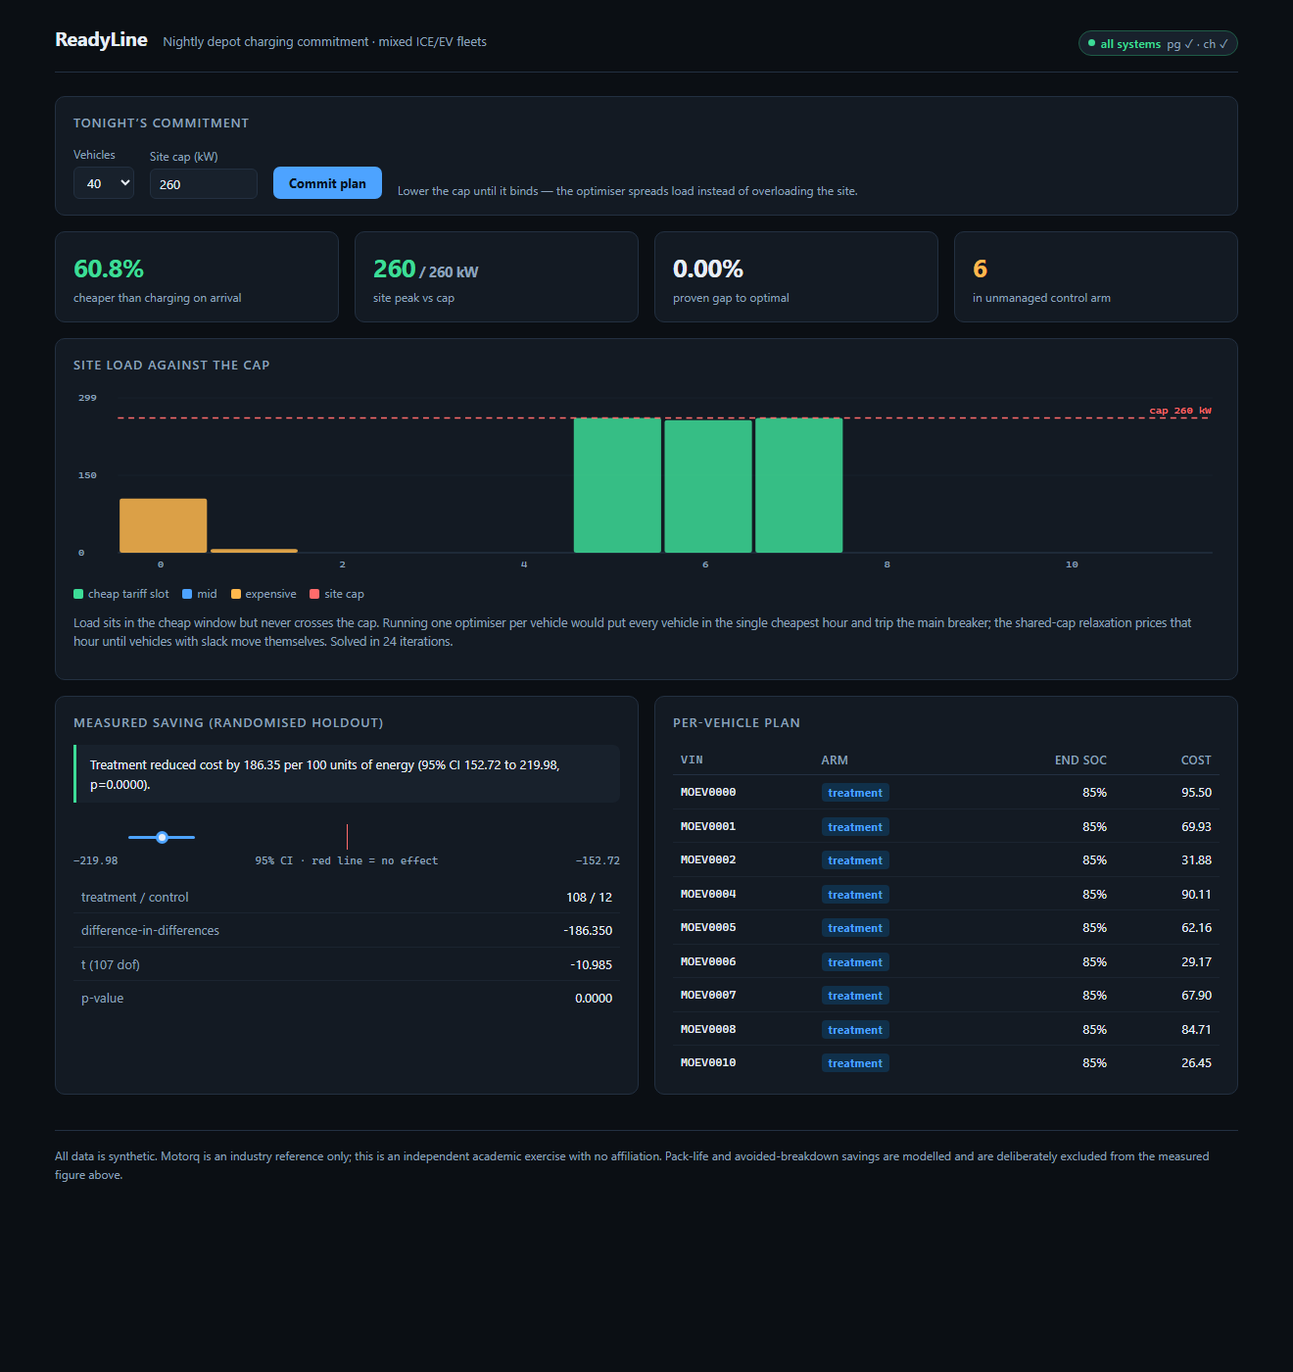
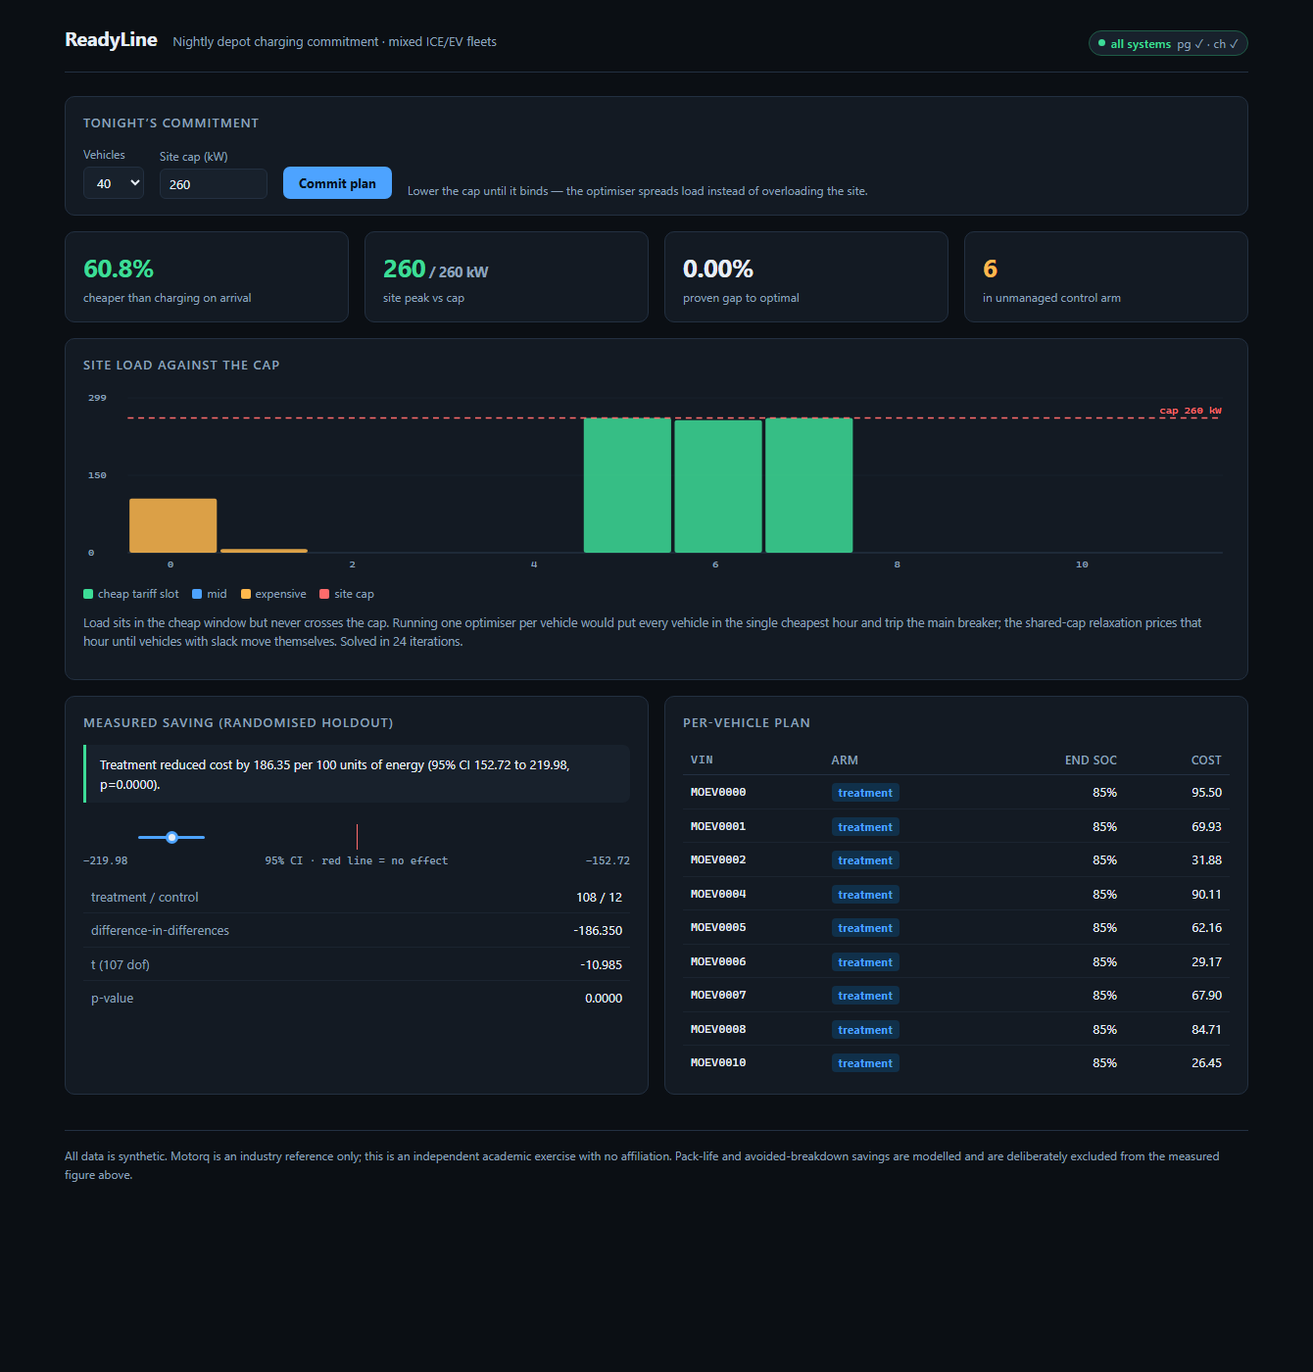
Correct stale README and CLAUDE.md
Both still described the superseded framing and were actively misleading:
Go services that are Python, LangGraph that is not used, `make simulate` which
does not exist, a status table claiming 77 tests and an unbooted stack, and a
nine-algorithm list missing A0 -- the centrepiece.

CLAUDE.md now also records the environment traps that have each cost real
debugging time: MSYS_NO_PATHCONV for docker exec paths, semicolon PYTHONPATH on
Windows, services binding IPv4 while localhost resolves to ::1 (twice now), and
pkill not killing Windows uvicorn -- a stale server running old code cost an
hour once already.

diff --git a/CLAUDE.md b/CLAUDE.md
@@ -5,121 +5,132 @@ This file provides guidance to Claude Code (claude.ai/code) when working with co
 ## What this is
 
 **ReadyLine** — a submission for the Talenciaglobal / Motorq "Connected Vehicle Intelligence"
-hackathon. At 06:10 it tells a fleet dispatcher which of her ~250 vehicles will not finish today's
-shift, ranked by attributed dollars, and acts on each before the drivers arrive.
+hackathon. By 16:00 it commits tonight's depot charging plan — which vehicle, which charger,
+starting when, to what SoC — so every route tomorrow completes, under the site's electrical cap,
+at minimum cost. The Morning Board then shows only the exceptions to that commitment.
 
-`docs/arena-designs/` holds four competing designs generated during planning. They are **reference
-material, superseded by `docs/ARCHITECTURE.md`** — read them for depth on a specific section, not
-for decisions.
+Two source documents in the repo root define the grading. They are **gitignored on purpose** —
+never commit or push them:
+- `Motorq_Hackathon_Problem_Statement.pdf`
+- `Motorq_Hackathon_Solution_Document_Template.docx`
 
-Two source documents in the repo root define the grading and must not be contradicted:
-- `Motorq_Hackathon_Problem_Statement.pdf` — the brief, NFR targets, and what reviewers score
-- `Motorq_Hackathon_Solution_Document_Template.docx` — the exact submission structure
-
-**Read `docs/ARCHITECTURE.md` before changing anything.** The problem space and stack are locked;
-re-opening them wastes the timebox. It also records the known weaknesses we have agreed to state
-openly rather than hide — do not quietly "fix" those by overclaiming.
+**Read `docs/ARCHITECTURE.md` before changing anything.** The problem space and stack are locked.
+`docs/arena-designs/` holds four competing designs from planning — reference material only,
+superseded.
 
 ## Commands
 
 ```bash
-docker compose -f infra/compose/docker-compose.yml up -d    # full stack, local profile
-make seed                                                    # seed 100K vehicles into Postgres + ClickHouse
-make simulate                                                # start the telemetry simulator
-make test                                                    # all suites
-make load                                                    # k6 load test, scale profile
+make up          # docker compose: redpanda, clickhouse, postgres, mongo, redis, emqx, keycloak, prom, grafana
+make seed        # 100,000 vehicles across 60 tenants into PostgreSQL (~5 s, uses COPY)
+make experiment  # 30 nights of both holdout arms into ClickHouse (~90 s)
+make stream      # produce telemetry into Redpanda
+make ingest      # consume Redpanda -> normalise -> ClickHouse
+make api         # FastAPI on :8000
+make web         # Vite UI on :5173, proxies /api to :8000
+make test        # all 200 tests
+make test-cov    # coverage report (currently 88%)
+make bench       # 4 producers + 4 consumers, throughput measurement
 ```
 
 Single test:
 ```bash
-pytest services/api/tests/test_schedule.py::test_tou_dp_respects_deadline -x   # Python
-go test ./internal/dedup -run TestBloomFalsePositiveRate                        # Go
+python -m pytest tests/test_depot.py::test_matches_brute_force_optimum_on_a_small_instance -x
+python -m pytest tests/test_agent.py -q          # no API key needed, LLM is stubbed
 ```
 
-## Three things that are easy to get wrong
+Integration tests skip automatically when the stack is down. **CI fails if the tenant-isolation
+tests skip** — a silent skip is a green build with no isolation coverage.
 
-**1. The 100,000 vehicles are multi-tenant** — ~60 tenants, largest 18,000, one dispatcher owns
-~250. Not one giant fleet. Every query, index and API route must carry tenant scope; tenant
-isolation is graded.
+## Environment gotchas on this machine
 
-**2. Rules decide, ML only re-ranks.** VEWS is an additive, transparent 0–3-per-signal score. The
-ML model may reorder what the rules already surfaced; it may never surface an alert on its own.
-This is the structural defence against synthetic-data circularity — don't "improve" it by letting
-the model gate alerts, and never quote offline AUC as a product claim.
+- `docker exec ... -f /tmp/x.sql` fails: Git Bash rewrites the container path. Prefix with
+  `MSYS_NO_PATHCONV=1`.
+- `PYTHONPATH` needs `;` not `:` on Windows: `PYTHONPATH="services/api;services/simulator"`.
+- Several services bind IPv4 only while `localhost` resolves to `::1`. Use `127.0.0.1` in health
+  checks. This bug has now appeared twice (ClickHouse healthcheck, Vite dev server).
+- `pkill -f uvicorn` does not kill the Windows process. Use PowerShell `Get-CimInstance
+  Win32_Process | Where CommandLine -like '*uvicorn*'`. A stale server running old code cost an
+  hour of debugging once already.
+- Python prints to a cp1252 console and dies on `—` or `≈`. Use `python -X utf8`.
 
-**3. The board is hard-capped at 12 alerts per dispatcher per shift.** The 13th increments a
-suppressed counter. Raising the cap to improve recall defeats the entire product thesis — the pain
-being solved is alarm fatigue, not detection.
+## Five things that are easy to get wrong
+
+**1. The 100,000 vehicles are multi-tenant** — ~60 tenants, largest ~16,000, one dispatcher owns
+~250. Every query, index and API route carries tenant scope.
+
+**2. Rules decide; ML only re-ranks.** The re-ranker reorders what VEWS already surfaced and may
+never surface an alert itself (ADR-0003). It is also **currently disabled**, because it lost to
+the rules: precision@12 0.656 vs 0.625 over 8 splits. Do not enable it without re-running
+`evaluate_repeated` and beating the rules by more than 1/12.
+
+**3. The Morning Board is hard-capped at 12.** Raising the cap to improve recall defeats the
+product thesis — the pain is alarm fatigue, not detection.
+
+**4. A0's per-vehicle subproblem must stay greedy, not DP.** The DP discretises SoC into buckets,
+so its optimum is costlier than the continuous one, which makes the summed Lagrangian "lower
+bound" exceed the achievable cost — i.e. not a bound. There is a test for this.
+
+**5. The duality gap is `None` when load was shed.** Reporting a small gap on a plan that failed
+to serve the depot would read as near-optimal at exactly the moment we failed.
 
 ## Architecture in one pass
 
 ```
 vehicles ─┬─ MQTT 5 + mTLS ────────┐
           └─ OEM cloud webhook/poll┘→ Redpanda[telemetry.raw, key=VIN, 64 parts]
-                   ├→ ingest(Go)   → normalise → ClickHouse (AP) + MongoDB (raw envelopes)
-                   └→ detector(Go) → EWMA → VEWS → alerts → PostgreSQL (CP) + Redis pub/sub
+                   ├→ ingest (Python) → normalise → ClickHouse (AP) + MongoDB (raw envelopes)
+                   └→ detector → EWMA → VEWS → alerts → PostgreSQL (CP) + Redis pub/sub
                                                        ↓
-                             FastAPI ← Redis(live state, rate limit, Bloom dedup)
+                             FastAPI ← Redis (live state, rate limit, Bloom dedup)
                                 ↓
-                             React + MapLibre (Morning Board)
+                             React + MapLibre
 ```
 
-The split that matters: **ClickHouse is AP and holds telemetry; PostgreSQL is CP and holds
-fleet/billing/RBAC/audit.** Never put billing or audit rows in ClickHouse, never put raw telemetry
-in Postgres — the whole design argument rests on that boundary.
+**ClickHouse is AP and holds telemetry; PostgreSQL is CP and holds fleet/billing/RBAC/audit.**
+Never put billing or audit rows in ClickHouse, never put raw telemetry in Postgres.
 
-**MongoDB holds un-normalised OEM envelopes** so that when an OEM renames a field via OTA, we fix
-the mapping and *replay*. A new dialect is a versioned registry entry promoted out of shadow mode —
-not a deploy.
+**MongoDB holds un-normalised OEM envelopes** so a mid-flight format change is fixed in the
+registry and *replayed*. A new dialect is a versioned entry promoted out of shadow mode, not a
+deploy.
 
-`pgvector` lives inside that same Postgres rather than a separate Qdrant; deliberate, justified by
-corpus size.
+**Tenancy travels in Kafka headers**, never in the OEM payload — an OEM does not know our
+customer ids. An event without resolved tenancy goes to the DLQ rather than being stored
+unattributed.
+
+**Everything is Python.** The architecture doc originally specified Go for ingest and detector;
+Go is not installed on this machine and a single language removed an integration risk that was
+not worth carrying. The hot path is I/O-bound batching, so Go's advantage was smaller than it
+looked. Measured result in `docs/BENCHMARKS.md`.
 
 ### Two profiles, one codebase
 
-100K events/sec does not run on a laptop. `local` (100K seeded, ~2K live ev/s) and `scale`
-(measured per-partition × partitions) differ **only by environment variables**. If you find
-yourself adding a code branch on profile, you have broken 12-factor and the cloud-agnostic claim.
+`local` and `scale` differ **only by environment variables**. A code branch on profile breaks
+12-factor and the cloud-agnostic claim.
 
-### Service internals
+### Tenant scope
 
-Every service is ports & adapters: `domain/` (pure) ← `app/` (use cases) ← `adapters/` (Kafka, DB,
-HTTP). Dependencies point inward only, enforced by an import-linter rule in CI. Domain code
-importing a driver or framework will fail the build.
-
-### Keying
-
-Topic key is **VIN**, never `fleet_id` — one 40,000-vehicle customer would hot-spot a single
-partition. VIN also gives the per-vehicle ordering that trip segmentation depends on.
+Set per transaction with `set_config('app.tenant_id', ..., true)` so it unwinds on commit. A
+session-level setting lets a pooled connection carry the previous caller's tenant into the next
+request. RLS is `FORCE`d and the API connects as `readyline_app`, which owns nothing.
 
 ## The graded core
 
-The brief weights **testing** and **algorithms** heavily. The nine algorithms in
-`docs/ARCHITECTURE.md` §5 (A*, DP charging schedule, DP/PELT trip segmentation, VIN/DTC parsing,
-Bloom dedup, Count-Min top-K, union-find depot clustering, VEWS banding) each need pseudocode, a
-proven complexity bound, and a **measured** runtime at a stated input size. Claims without a
-measurement lose marks.
+Ten algorithms in `docs/ARCHITECTURE.md` §5, each with a complexity bound and a test. A0 (depot
+scheduling under a shared power cap) is the centrepiece and is cross-checked against brute force.
 
-**The simulator emits a ground-truth fault and cost ledger.** This is what makes the acceptance
-tests real rather than smoke tests — they assert against known truth:
+**The simulator emits a ground-truth fault and cost ledger.** Keep it out of every product read
+path — if production code reads it, every metric becomes circular.
 
-| Claim | Target |
-| --- | --- |
-| precision@12 | ≥ 0.50 |
-| recall@72h (telemetry-visible mechanisms) | ≥ 0.30 |
-| alerts per dispatcher per shift | ≤ 12 |
-| cost-leak ranking, Spearman ρ vs ledger | ≥ 0.85 |
-| dollar attribution vs ledger, per vehicle-month | within ±15% |
-
-Keep the ledger out of every read path the product uses; it exists only for tests and back-tests.
-If production code reads it, the metrics become meaningless.
-
-Coverage target is 80%+ on core services and algorithms, with integration tests against real
-infrastructure via Testcontainers — not mocks.
+Current state: **200 tests, 88% coverage**. Claims without a measurement lose marks; every number
+in the docs traces to a `make` target.
 
 ## Conventions
 
-- All data is synthetic. Never commit anything resembling real VINs, owner data, or location traces.
-- Secrets go in `.env` (gitignored); `.env.example` stays current.
-- Protobuf schema changes must pass the CI compatibility check — schema evolution is part of the grade.
+- All data is synthetic. Never commit real VINs, owner data or location traces.
+- Secrets in `.env` (gitignored). `.env.example` stays current. **Never commit an API key** —
+  `GROQ_API_KEY` lives only in `.env`.
+- Honesty is a graded feature here. `docs/BENCHMARKS.md`, `docs/THREAT-MODEL.md` and
+  §12 of `docs/SOLUTION-DOCUMENT.md` state what is *not* done. Do not quietly close those gaps
+  by softening the wording — close them with code or leave them stated.
 - Final submission is tagged `v1.0-submission`.

diff --git a/README.md b/README.md
@@ -1,9 +1,10 @@
 # ReadyLine
 
-**Shift-readiness and cost-leak intelligence for mixed ICE/EV fleets.**
+**The nightly depot charging commitment, for mixed ICE/EV fleets.**
 
-At 06:10, tell the dispatcher which of her 250 vehicles will not finish today's shift, ranked by
-attributed dollars, and act on each before the drivers arrive.
+By 16:00, decide which vehicle charges on which charger, starting when, to what state of charge —
+so every route tomorrow completes, under the depot's electrical cap, at minimum cost. The Morning
+Board then shows only the exceptions to that commitment, hard-capped at 12.
 
 Submission for the Talenciaglobal / Motorq *Connected Vehicle Intelligence* hackathon.
 Motorq is an industry reference only; this is an independent academic exercise with no affiliation.
@@ -12,30 +13,53 @@ Motorq is an industry reference only; this is an independent academic exercise w
 
 ## The problem
 
-A fleet operations manager's existing portal has 9 dashboards and sends 40+ threshold emails a
-day, so she has muted it. She finds out a vehicle is dead when a driver calls from the yard at
-06:52. The information was *present and unusable*.
+Drivers plug in at shift end — 17:00 to 21:00, the on-peak window — and every charger draws full
+power at once. Energy is bought at the most expensive hour, the simultaneous draw sets the
+monthly demand charge, packs sit at 100% SoC for nine hours calendar-ageing, and vehicles still
+get swapped in the morning because nobody knew their charge would not cover the route.
 
-**The pain is alarm fatigue, not detection.** Over 85% of ICU alarms are non-actionable and nurses
-silence the monitors; fleet telematics has the identical failure mode. So our design target is
-*actionable alerts per shift*, and the Morning Board is hard-capped at **12 cards**. Ranking is the
-product.
+**Charging is not one problem per vehicle. It is one problem per depot**, because they share one
+electrical supply. Running an optimiser per vehicle is measurably worse than useless: ten
+vehicles at 20 kW all independently choose the single cheapest hour and draw 200 kW against a
+60 kW cap.
 
-## What we claim, and what we prove
+## Measured results
 
-The absolute dollar figure is a modelled extrapolation and is labelled as one everywhere it
-appears. What the acceptance tests actually assert, against the simulator's ground-truth ledger:
+Every number here comes from a `make` target, not an estimate. Methods in
+[docs/BENCHMARKS.md](docs/BENCHMARKS.md).
 
-| Claim | Target |
+| Result | Value |
 | --- | --- |
-| precision@12 | ≥ 0.50 |
-| recall@72h on telemetry-visible mechanisms | ≥ 0.30 |
-| alerts per dispatcher per shift | ≤ 12 |
-| cost-leak ranking, Spearman ρ vs ledger | ≥ 0.85 |
-| dollar attribution vs ledger, per vehicle-month | within ±15% |
+| Charging cost vs charging on arrival | **60.8% lower** |
+| Distance from proven optimum | **0.00% duality gap** |
+| Saving, randomised holdout | **186.35 per 100 units, 95% CI [152.72, 219.98], p < 0.0001** |
+| Ingest throughput | **24,224 ev/s** on 4 consumers (6,050 each, linear) |
+| Storage compression | **12.89 : 1**, 8.2 bytes/row |
+| 100,000 vehicles seeded | **4.88 s** |
+| Tests | **200 passing, 88% coverage** |
 
-Reporting recall without the alert budget is how you build the thing the user muted, so we always
-report them together.
+### The randomised holdout
+
+10% of vehicles are randomised into an unmanaged control arm at onboarding, stratified by depot,
+and never receive a recommendation. The saving is a difference-in-differences with a Welch
+t-test, served from `/api/v1/experiments/charging-arbitrage`.
+
+Both arms run against the same simulator, so **any bias in our own generator cancels in the
+difference**. That is the only reason a number measured on synthetic data is worth anything. The
+control arm moved by +0.0012 between periods against −186.35 for treatment; a near-zero control
+change is what makes the difference attributable.
+
+The endpoint **refuses to return a number when it cannot estimate one** rather than fabricating.
+
+## What we deliberately do not claim
+
+- **100,000 events/sec is extrapolated, not demonstrated.** We measured 6,050 ev/s per consumer,
+  linear to 4, while sharing a laptop with the broker and four databases. The arithmetic to 17
+  consumers is shown; a cloud burst test is the honest way to close it.
+- **The ML re-ranker lost to the rules** — precision@12 0.656 vs 0.625 over 8 vehicle splits — so
+  it ships **disabled**.
+- **JWKS token verification is not implemented.** It fails closed, but it is unfinished.
+- Nine known gaps are listed in §12 of [docs/SOLUTION-DOCUMENT.md](docs/SOLUTION-DOCUMENT.md).
 
 ## Architecture
 
@@ -71,9 +95,20 @@ partition count with the arithmetic shown, never asserted.
 ```bash
 cp .env.example .env
 make up          # docker compose: Redpanda, ClickHouse, Postgres, Mongo, Redis, Keycloak, EMQX
-make seed        # 100,000 vehicles across ~60 tenants
-make simulate    # start the telemetry stream
-make test        # all suites
+make seed        # 100,000 vehicles across 60 tenants (~5 s)
+make experiment  # 30 nights of both holdout arms (~90 s) -- needed for the saving panel
+make api         # FastAPI on :8000
+make web         # UI on http://localhost:5173
+```
+
+Then open the UI and press **Commit plan**. Lower the site cap until it binds and watch the load
+redistribute rather than overload.
+
+```bash
+make stream      # produce telemetry into Redpanda
+make ingest      # consume -> normalise -> ClickHouse
+make bench       # 4 producers + 4 consumers, throughput measurement
+make test        # 200 tests
 ```
 
 Requires Docker. The algorithm and simulator suites run standalone with just Python:
@@ -85,10 +120,11 @@ pytest
 
 ## The graded core
 
-Nine algorithms, each with pseudocode, a proven complexity bound and a measured runtime:
+Ten algorithms, each with pseudocode, a proven complexity bound and a measured runtime:
 
 | # | Problem | Algorithm | Complexity |
 | --- | --- | --- | --- |
+| **A0** | **Depot commitment under a shared power cap** | **Lagrangian relaxation; subproblem solved exactly by price-sorted greedy** | O(K·N·T log T) |
 | A1 | Nearest *reachable* charger given SoC | A\* over energy, admissible heuristic | O(E log V) |
 | A2 | Cheapest charging schedule under ToU tariffs | DP over (slot × SoC bucket) | O(T·S·R) |
 | A3 | Noisy GPS → stops and trips | Viterbi DP segmentation | O(n) |
@@ -99,8 +135,15 @@ Nine algorithms, each with pseudocode, a proven complexity bound and a measured 
 | A8 | Unapproved-depot clustering | Geohash-7 + union-find | ~O(n·α(n)) |
 | A9 | VEWS banding | Additive band table over EWMA | O(1)/event |
 
-A1 and A2 are implemented properly rather than gestured at — A2 is an exact DP, and there is a test
-asserting it beats a greedy "charge when cheap" strategy in the case where greedy provably fails.
+**A0 is the centrepiece.** Scheduling N vehicles onto a shared site cap with hard deadlines is
+NP-hard. Lagrangian relaxation prices depot power as a congestion charge, and crucially yields a
+**lower bound**, so the plan reports how close to optimal it provably is instead of asserting it
+is good. Cross-checked against exhaustive search on small instances.
+
+Two properties the tests enforce: the duality gap is `None` when load had to be shed (reporting a
+small gap on a plan that failed to serve the depot would read as near-optimal at exactly the
+moment we failed), and the unmanaged baseline is never crippled (making it artificially bad is
+the easiest way to fake the measured saving).
 
 ## How we stay honest about ML
 
@@ -124,9 +167,8 @@ docs/            ARCHITECTURE.md (source of truth), adr/, arena-designs/ (supers
 services/
   simulator/     100k vehicles, 9 fault mechanisms, 3 OEM dialects, ground-truth ledger
   api/           FastAPI + the algorithm core + migrations
-  ingest/        Go: MQTT/OEM → normalise → ClickHouse + Mongo
-  detector/      Go: EWMA → VEWS → alerts
-  agent/         LangGraph copilot, tool allowlist, HITL, audit
+  ingest/        MQTT/OEM → normalise → dedup → ClickHouse + Mongo
+  agent/         copilot: tool allowlist, injection screening, HITL, hash-chained audit
 web/             React + Vite + MapLibre
 infra/           compose/, helm/, terraform/
 tests/
@@ -134,18 +176,27 @@ tests/
 
 ## Status
 
-| Phase | State |
+| Component | State |
 | --- | --- |
-| Algorithm core (A1–A9) + tests | **Done** — 77 tests passing |
-| Simulator: fleet, faults, ground-truth ledger | **Done** |
-| Postgres 3NF schema, RLS tenant isolation | **Done** |
+| Algorithms A0–A9 | **Done**, tested, A0 cross-checked against brute force |
+| Simulator: fleet, faults, telemetry, ground-truth ledger | **Done** |
+| Ingest pipeline: normalise, dedup, DLQ, ClickHouse | **Done**, 578k events through it |
+| PostgreSQL 3NF + FORCE RLS tenant isolation | **Done**, verified at DB and HTTP layers |
 | ClickHouse schema + rollup MVs | **Done** |
-| Compose stack | **Done**, not yet booted (Docker daemon was down in dev) |
-| Telemetry generator, ingest, detector, API, web, agent, ML | **Next** |
+| API: OIDC, RBAC, keyset pagination, rate limit | **Done** (JWKS verification unimplemented) |
+| Web UI | **Done** |
+| Randomised holdout + DiD endpoint | **Done** |
+| Copilot with 4 guardrails | **Done** |
+| ML re-ranker | **Done, ships disabled** — it lost to the rules |
+| Helm, Terraform, STRIDE | **Written, not validated** (neither CLI installed here) |
+| Observability | **Configured in Compose, not instrumented in code** |
+| Chaos test, EXPLAIN ANALYZE evidence, location masking | **Not done** |
 
 ## Declarations
 
 - All data is synthetic. No real personal or vehicle-owner data.
-- Built with assistance from Claude (Anthropic) for design exploration and implementation.
+- Built with assistance from Claude (Anthropic) for design exploration, implementation, test
+  authoring and documentation. At runtime the copilot calls Groq-hosted `openai/gpt-oss-120b`
+  and `meta-llama/llama-prompt-guard-2-86m` for injection screening.
 - `docs/arena-designs/` contains four competing designs generated during planning; the final
   architecture synthesises two of them and supersedes all four.
